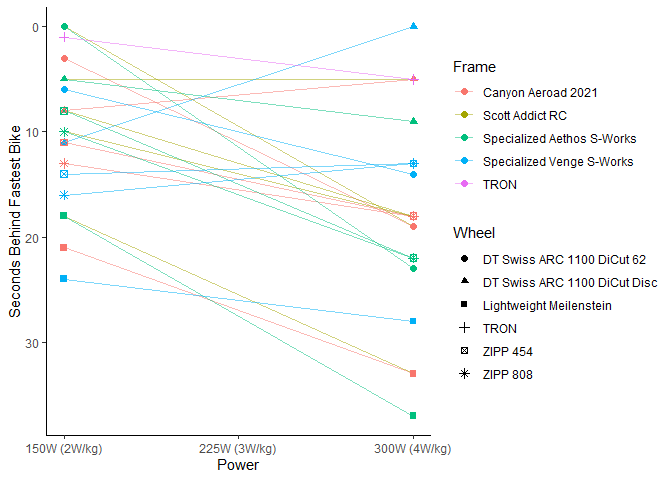
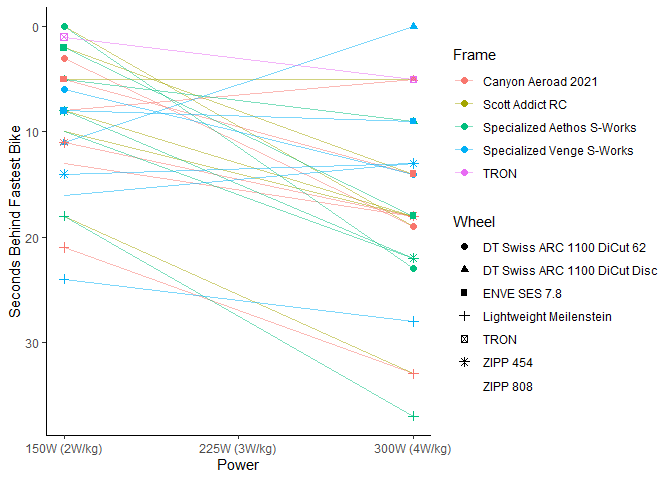
ses7.8

diff --git a/article.md b/article.md
@@ -19,21 +19,21 @@ top_300[1:20]
     ##  3:         Canyon Aeroad 2021 DT Swiss ARC 1100 DiCut Disc 54:05 (+00:05)
     ##  4:                       TRON                         TRON 54:05 (+00:05)
     ##  5: Specialized Aethos S-Works DT Swiss ARC 1100 DiCut Disc 54:09 (+00:09)
-    ##  6:  Specialized Venge S-Works                     ZIPP 808 54:13 (+00:13)
-    ##  7:  Specialized Venge S-Works                     ZIPP 454 54:13 (+00:13)
-    ##  8:  Specialized Venge S-Works   DT Swiss ARC 1100 DiCut 62 54:14 (+00:14)
-    ##  9:            Scott Addict RC                     ZIPP 808 54:18 (+00:18)
-    ## 10:         Canyon Aeroad 2021                     ZIPP 808 54:18 (+00:18)
-    ## 11:            Scott Addict RC                     ZIPP 454 54:18 (+00:18)
-    ## 12:         Canyon Aeroad 2021                     ZIPP 454 54:18 (+00:18)
-    ## 13:            Scott Addict RC   DT Swiss ARC 1100 DiCut 62 54:19 (+00:19)
-    ## 14:         Canyon Aeroad 2021   DT Swiss ARC 1100 DiCut 62 54:19 (+00:19)
-    ## 15:                 Zwift Aero DT Swiss ARC 1100 DiCut Disc 54:20 (+00:20)
-    ## 16: Specialized Aethos S-Works                     ZIPP 808 54:22 (+00:22)
-    ## 17: Specialized Aethos S-Works                     ZIPP 454 54:22 (+00:22)
-    ## 18: Specialized Aethos S-Works   DT Swiss ARC 1100 DiCut 62 54:23 (+00:23)
-    ## 19:  Specialized Venge S-Works      Lightweight Meilenstein 54:28 (+00:28)
-    ## 20:            Scott Addict RC      Lightweight Meilenstein 54:33 (+00:33)
+    ##  6:  Specialized Venge S-Works                 ENVE SES 7.8 54:09 (+00:09)
+    ##  7:  Specialized Venge S-Works                     ZIPP 808 54:13 (+00:13)
+    ##  8:  Specialized Venge S-Works                     ZIPP 454 54:13 (+00:13)
+    ##  9:  Specialized Venge S-Works   DT Swiss ARC 1100 DiCut 62 54:14 (+00:14)
+    ## 10:            Scott Addict RC                 ENVE SES 7.8 54:14 (+00:14)
+    ## 11:         Canyon Aeroad 2021                 ENVE SES 7.8 54:14 (+00:14)
+    ## 12:            Scott Addict RC                     ZIPP 808 54:18 (+00:18)
+    ## 13:         Canyon Aeroad 2021                     ZIPP 808 54:18 (+00:18)
+    ## 14:            Scott Addict RC                     ZIPP 454 54:18 (+00:18)
+    ## 15:         Canyon Aeroad 2021                     ZIPP 454 54:18 (+00:18)
+    ## 16: Specialized Aethos S-Works                 ENVE SES 7.8 54:18 (+00:18)
+    ## 17:            Scott Addict RC   DT Swiss ARC 1100 DiCut 62 54:19 (+00:19)
+    ## 18:         Canyon Aeroad 2021   DT Swiss ARC 1100 DiCut 62 54:19 (+00:19)
+    ## 19:                 Zwift Aero DT Swiss ARC 1100 DiCut Disc 54:20 (+00:20)
+    ## 20: Specialized Aethos S-Works                     ZIPP 808 54:22 (+00:22)
 
 - But ZI tests performed using a very specific profile of rider; 300w,
   182cm, 75kg
@@ -67,22 +67,22 @@ top_150[1:20]
     ##  1:            Scott Addict RC   DT Swiss ARC 1100 DiCut 62 01:25:13         
     ##  2: Specialized Aethos S-Works   DT Swiss ARC 1100 DiCut 62 01:25:13         
     ##  3:                       TRON                         TRON 01:25:14 (+00:01)
-    ##  4:         Canyon Aeroad 2021   DT Swiss ARC 1100 DiCut 62 01:25:16 (+00:03)
-    ##  5:            Scott Addict RC DT Swiss ARC 1100 DiCut Disc 01:25:18 (+00:05)
-    ##  6: Specialized Aethos S-Works DT Swiss ARC 1100 DiCut Disc 01:25:18 (+00:05)
-    ##  7:  Specialized Venge S-Works   DT Swiss ARC 1100 DiCut 62 01:25:19 (+00:06)
-    ##  8:         Canyon Aeroad 2021 DT Swiss ARC 1100 DiCut Disc 01:25:21 (+00:08)
-    ##  9:            Scott Addict RC                     ZIPP 454 01:25:21 (+00:08)
-    ## 10: Specialized Aethos S-Works                     ZIPP 454 01:25:21 (+00:08)
-    ## 11:            Scott Addict RC                     ZIPP 808 01:25:23 (+00:10)
-    ## 12: Specialized Aethos S-Works                     ZIPP 808 01:25:23 (+00:10)
-    ## 13:  Specialized Venge S-Works DT Swiss ARC 1100 DiCut Disc 01:25:24 (+00:11)
-    ## 14:         Canyon Aeroad 2021                     ZIPP 454 01:25:24 (+00:11)
-    ## 15:         Canyon Aeroad 2021                     ZIPP 808 01:25:26 (+00:13)
-    ## 16:  Specialized Venge S-Works                     ZIPP 454 01:25:27 (+00:14)
-    ## 17:  Specialized Venge S-Works                     ZIPP 808 01:25:29 (+00:16)
-    ## 18:            Scott Addict RC      Lightweight Meilenstein 01:25:31 (+00:18)
-    ## 19: Specialized Aethos S-Works      Lightweight Meilenstein 01:25:31 (+00:18)
-    ## 20:         Canyon Aeroad 2021      Lightweight Meilenstein 01:25:34 (+00:21)
+    ##  4:            Scott Addict RC                 ENVE SES 7.8 01:25:15 (+00:02)
+    ##  5: Specialized Aethos S-Works                 ENVE SES 7.8 01:25:15 (+00:02)
+    ##  6:         Canyon Aeroad 2021   DT Swiss ARC 1100 DiCut 62 01:25:16 (+00:03)
+    ##  7:            Scott Addict RC DT Swiss ARC 1100 DiCut Disc 01:25:18 (+00:05)
+    ##  8: Specialized Aethos S-Works DT Swiss ARC 1100 DiCut Disc 01:25:18 (+00:05)
+    ##  9:         Canyon Aeroad 2021                 ENVE SES 7.8 01:25:18 (+00:05)
+    ## 10:  Specialized Venge S-Works   DT Swiss ARC 1100 DiCut 62 01:25:19 (+00:06)
+    ## 11:         Canyon Aeroad 2021 DT Swiss ARC 1100 DiCut Disc 01:25:21 (+00:08)
+    ## 12:            Scott Addict RC                     ZIPP 454 01:25:21 (+00:08)
+    ## 13: Specialized Aethos S-Works                     ZIPP 454 01:25:21 (+00:08)
+    ## 14:  Specialized Venge S-Works                 ENVE SES 7.8 01:25:21 (+00:08)
+    ## 15:            Scott Addict RC                     ZIPP 808 01:25:23 (+00:10)
+    ## 16: Specialized Aethos S-Works                     ZIPP 808 01:25:23 (+00:10)
+    ## 17:  Specialized Venge S-Works DT Swiss ARC 1100 DiCut Disc 01:25:24 (+00:11)
+    ## 18:         Canyon Aeroad 2021                     ZIPP 454 01:25:24 (+00:11)
+    ## 19:         Canyon Aeroad 2021                     ZIPP 808 01:25:26 (+00:13)
+    ## 20:  Specialized Venge S-Works                     ZIPP 454 01:25:27 (+00:14)
 
 ![](article_files/figure-gfm/unnamed-chunk-3-1.png)<!-- -->![](article_files/figure-gfm/unnamed-chunk-3-2.png)<!-- -->![](article_files/figure-gfm/unnamed-chunk-3-3.png)<!-- -->![](article_files/figure-gfm/unnamed-chunk-3-4.png)<!-- -->
